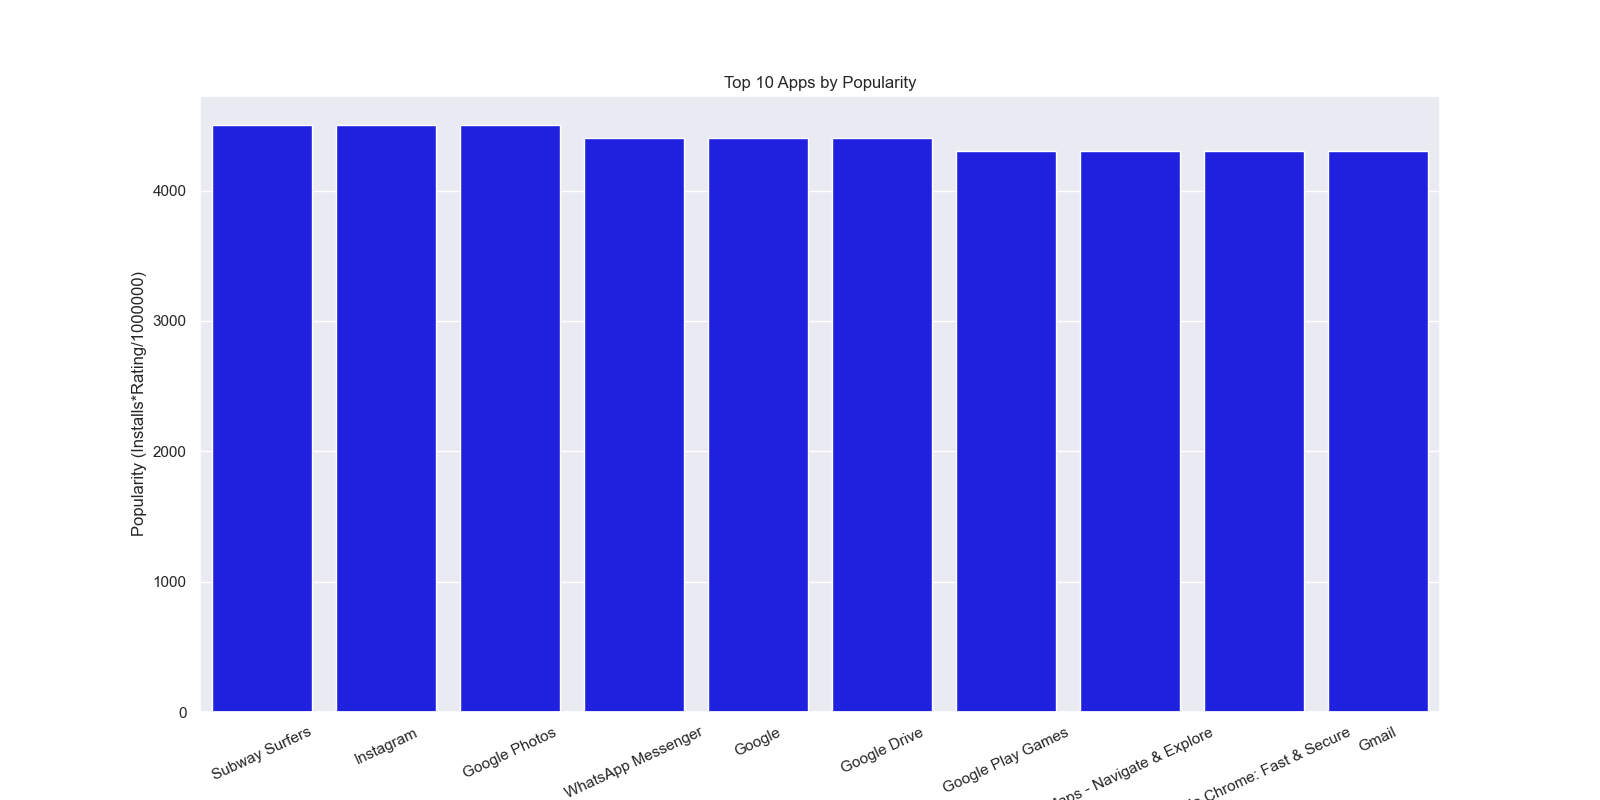
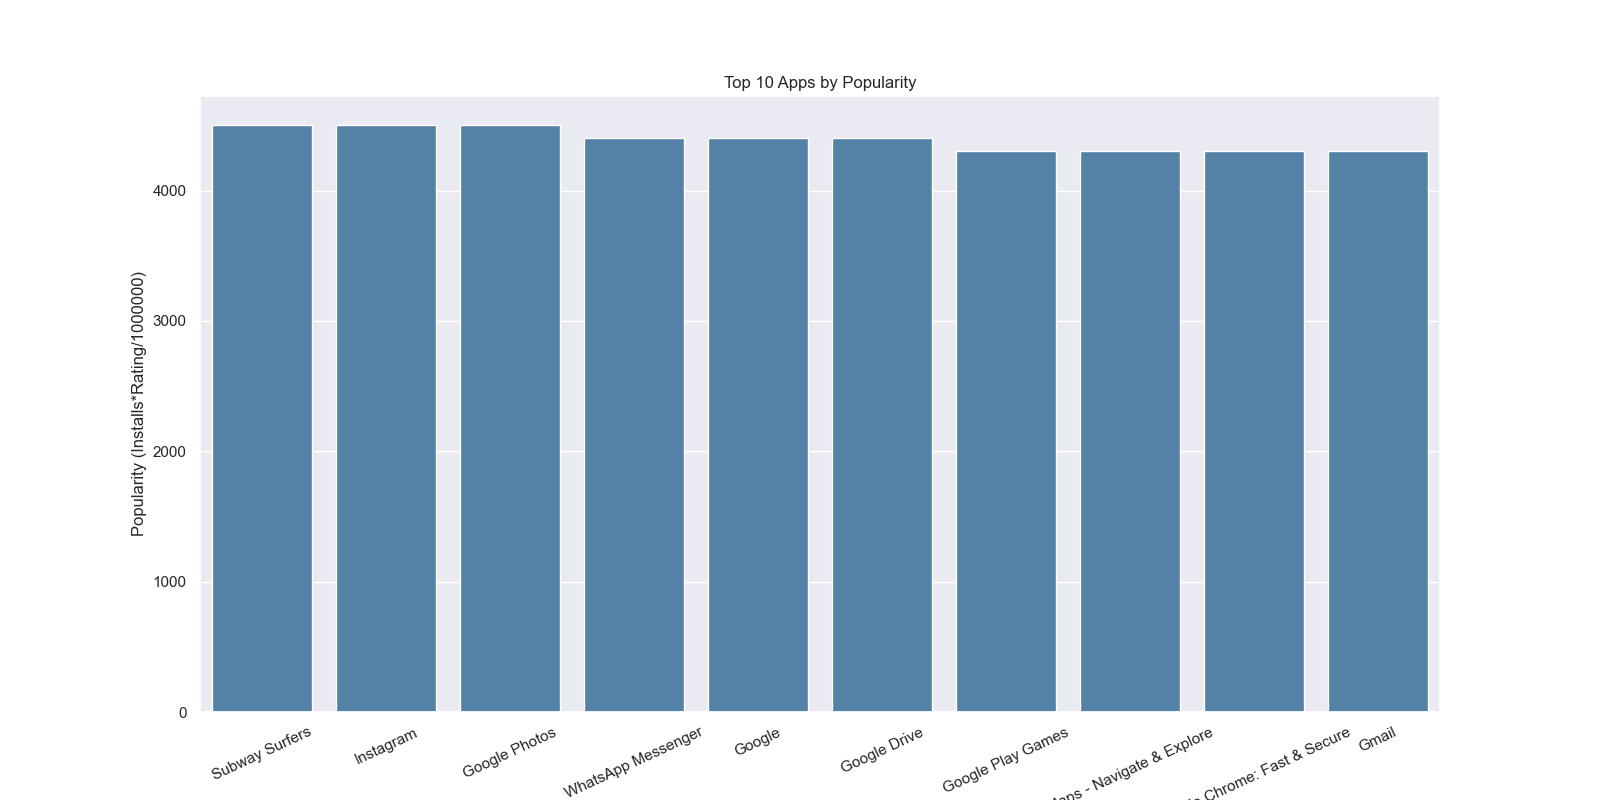
Corrected counplot method

diff --git a/progetto_2/src/DataVisualizer.py b/progetto_2/src/DataVisualizer.py
@@ -13,32 +13,30 @@ class DataVisualizer:
 
     def pipeline(self, df, df_all):
         if self.library == 'seaborn':
-            sns_vis = DataVisualizer(library="seaborn")
-            sns_vis.barh_by_grouping(df, column="Rating", group_by="Category", agg='sum')
-            sns_vis.scatter_plot(df, 'Installs', 'Reviews')
-            sns_vis.countplot(df, var='Category', hue='Type')
-            sns_vis.grouped_rating(df, ["Category", "Type"], "Rating")                          #average Rating devided in free and paid Apps for each Category
-            sns_vis.grouped_rating(df, "Category", "Rating")                                    #average Rating per Category
-            sns_vis.popularity_score(df)                                                        #top 10 Apps by Popularity (Rating*Installs)
-            sns_vis.rating_counter(df, "Rating", "Category")                                    #number of Apps in each Category for each Rating range
-            sns_vis.rating_counter(df, "Rating", "Type")                                        #number of Apps in each Type (free, paid) for each Rating range
-            sns_vis.growth_trend(df)
-            sns_vis.correlation_heatmap(df)
-            sns_vis.sent_category_hbar(df_all)
+            self.barh_by_grouping(df, column="Rating", group_by="Category", agg='sum')
+            self.scatter_plot(df, 'Installs', 'Reviews')
+            self.countplot(df, var='Category', hue='Type')
+            self.grouped_rating(df, ["Category", "Type"], "Rating")                          #average Rating devided in free and paid Apps for each Category
+            self.grouped_rating(df, "Category", "Rating")                                    #average Rating per Category
+            self.popularity_score(df)                                                        #top 10 Apps by Popularity (Rating*Installs)
+            self.rating_counter(df, "Rating", "Category")                                    #number of Apps in each Category for each Rating range
+            self.rating_counter(df, "Rating", "Type")                                        #number of Apps in each Type (free, paid) for each Rating range
+            self.growth_trend(df)
+            self.correlation_heatmap(df)
+            self.sent_category_hbar(df_all)
 
-        if self.library == 'matplotlib':
-            plt_vis = DataVisualizer(library="matplotlib")
-            plt_vis.barh_by_grouping(df, column="Rating", group_by="Category", agg='sum')
-            plt_vis.scatter_plot(df, 'Installs', 'Reviews')
-            plt_vis.countplot(df, var='Category', hue='Type')
-            plt_vis.grouped_rating(df, ["Category", "Type"], "Rating")                          #average Rating devided in free and paid Apps for each Category
-            plt_vis.grouped_rating(df, "Category", "Rating")                                    #average Rating per Category
-            plt_vis.popularity_score(df)                                                        #top 10 Apps by Popularity (Rating*Installs)
-            plt_vis.rating_counter(df, "Rating", "Category")                                    #number of Apps in each Category for each Rating range
-            plt_vis.rating_counter(df, "Rating", "Type") 
-            plt_vis.growth_trend(df)
-            plt_vis.correlation_heatmap(df)
-            plt_vis.sent_category_hbar(df_all)
+        elif self.library == 'matplotlib':
+            self.barh_by_grouping(df, column="Rating", group_by="Category", agg='sum')
+            self.scatter_plot(df, 'Installs', 'Reviews')
+            self.countplot(df, var='Category', hue='Type')
+            self.grouped_rating(df, ["Category", "Type"], "Rating")                          #average Rating devided in free and paid Apps for each Category
+            self.grouped_rating(df, "Category", "Rating")                                    #average Rating per Category
+            self.popularity_score(df)                                                        #top 10 Apps by Popularity (Rating*Installs)
+            self.rating_counter(df, "Rating", "Category")                                    #number of Apps in each Category for each Rating range
+            self.rating_counter(df, "Rating", "Type") 
+            self.growth_trend(df)
+            self.correlation_heatmap(df)
+            self.sent_category_hbar(df_all)
 
 
 # Creates a horizontal bar chart for a column in a dataframe grouped by another column 
@@ -72,8 +70,8 @@ class DataVisualizer:
 
 
 
-    def countplot(self, df, var:str, hue:str=None, orientation = Literal['orizzontal', 'vertical']):
-        """Creates a countplot for a variable in a dataframe with or without a hue variable.
+    def countplot(self, df, var:str, hue:str=None, orientation: Literal['orizzontal', 'vertical'] = None):
+        """Displays a countplot for every unique value in var, divided by hue if it is specified.
         
         Args:
             df: DataFrame
@@ -97,19 +95,13 @@ class DataVisualizer:
         if orientation == 'vertical':
             if not hue:
                 if self.library == 'seaborn':
-                    sns.countplot(x=data.items, color='blue', order=df[var].value_counts().index)
-                    ax.set(title=f'Number of apps with for each {var} value')
-                    plt.savefig('./database/output/graphs/countplot_sns.png')
+                    sns.countplot(x=data.items, color='steelblue', order=df[var].value_counts().index)
                 else:
-                    data = df['Category'].value_counts().sort_values(ascending=True)
-                    plt.bar(x=data.index, height=data.values, color='blue')
-                    ax.set(title=f'Number of apps with for each {var} value')
-                    plt.savefig('./database/output/graphs/countplot_mat.png')
+                    data = df[var].value_counts().sort_values(ascending=True)
+                    plt.bar(x=data.index, height=data.values, color='steelblue')
             else:
                 if self.library == 'seaborn':
                     sns.countplot(x=df[var], hue=df[hue], order=df[var].value_counts().index)
-                    ax.set(title=f'Number of apps with for each {var} value')
-                    plt.savefig('./database/output/graphs/countplot_sns.png')
                 else:
                     data = df.groupby(by=[var, hue])[var, hue].size().unstack(fill_value=0)
                     data = data.sort_values(by=list(data.columns)[0], ascending=False)
@@ -124,25 +116,18 @@ class DataVisualizer:
                         multiplier += 1
 
                     ax.set_xticks(x + width, data.index)
-                    ax.set(title=f'Number of apps with for each {var} value')
-                    plt.savefig('./database/output/graphs/countplot_mat.png')
+                    
 
         else:
             if not hue:
                 if self.library == 'seaborn':
-                    sns.countplot(y=df[var], color='blue', order=df[var].value_counts().index)
-                    ax.set(title=f'Number of apps with for each {var} value')
-                    plt.savefig('./database/output/graphs/countplot1_sns.png')
+                    sns.countplot(y=df[var], color='steelblue', order=df[var].value_counts().index)
                 else:
                     data = df['Category'].value_counts(ascending=True)
-                    plt.barh(y=data.index, width=data.values,color='blue')
-                    ax.set(title=f'Number of apps with for each {var} value')
-                    plt.savefig('./database/output/graphs/countplot1_mat.png')
+                    plt.barh(y=data.index, width=data.values,color='steelblue')
             else:
                 if self.library == 'seaborn':
                     sns.countplot(y=df[var], hue=df[hue], order=df[var].value_counts().index)
-                    ax.set(title=f'Number of apps with for each {var} value')
-                    plt.savefig('./database/output/graphs/countplot1_sns.png')
                 else:
                     data = df.groupby(by=[var, hue])[var, hue].size().unstack(fill_value=0)
                     data = data.sort_values(by=list(data.columns)[0])
@@ -158,7 +143,8 @@ class DataVisualizer:
 
                     ax.set_yticks(y + height, data.index)
                     ax.set(title=f'Number of apps with for each {var} value')
-                    plt.savefig('./database/output/graphs/countplot1_mat.png')
+
+        plt.savefig('./database/output/graphs/countplot_mat.png')
         plt.show()
 
         
@@ -180,9 +166,9 @@ class DataVisualizer:
             plt.show()
 
         else:
-            plt.plot(x, y, 'o', color='blue')
+            plt.plot(x, y, 'o', color='steelblue')
             m, b = np.polyfit(x, y, 1)
-            plt.plot(x, m*x+b, color='blue')      
+            plt.plot(x, m*x+b, color='steelblue')      
             plt.title(f"Pearson's correlation coefficient: {rho(x, y)}")
             plt.xlabel(f'Number of {col1}')
             plt.ylabel(f'Total {col2}')
@@ -235,7 +221,7 @@ class DataVisualizer:
                 x = np.arange(len(df_group.index))
                 y_free = df_group.Free.fillna(0).values
                 y_paid = df_group.Paid.fillna(0).values                
-                plt.bar(x - bar_width / 2, y_free, bar_width, color= "blue", label="Free")
+                plt.bar(x - bar_width / 2, y_free, bar_width, color= "steelblue", label="Free")
                 plt.bar(x + bar_width / 2, y_paid, bar_width, color= "orange", label="Paid")
                 plt.ylabel("Rating")
                 plt.xticks(x, df_group.index, rotation= 65)
@@ -263,7 +249,7 @@ class DataVisualizer:
         fig, ax = plt.subplots(figsize= (16, 8))
         
         if self.library == "seaborn":
-            sns.barplot(x= df_popularity["App"], y= df_popularity["Popularity"], color='blue')
+            sns.barplot(x= df_popularity["App"], y= df_popularity["Popularity"], color='steelblue')
             ax.set_xticklabels(ax.get_xticklabels(), rotation=25)
             ax.set(xlabel= "Apps", ylabel= f"Popularity (Installs*Rating/{int(str(max(df.Installs))[:-3]) if len(str(max(df.Installs))) > 7 else 10})")
             ax.set_title("Top 10 Apps by Popularity")

diff --git a/progetto_2/main.py b/progetto_2/main.py
@@ -48,4 +48,4 @@ di.save_file(df_all, 'database/output/googleplaystore_sentiment.pkl')
 dv.pipeline(df, df_all)
 
 # Loads PNG graphs based on library
-#di.load_image('png', library='seaborn')
+di.load_image('png', library='seaborn')
